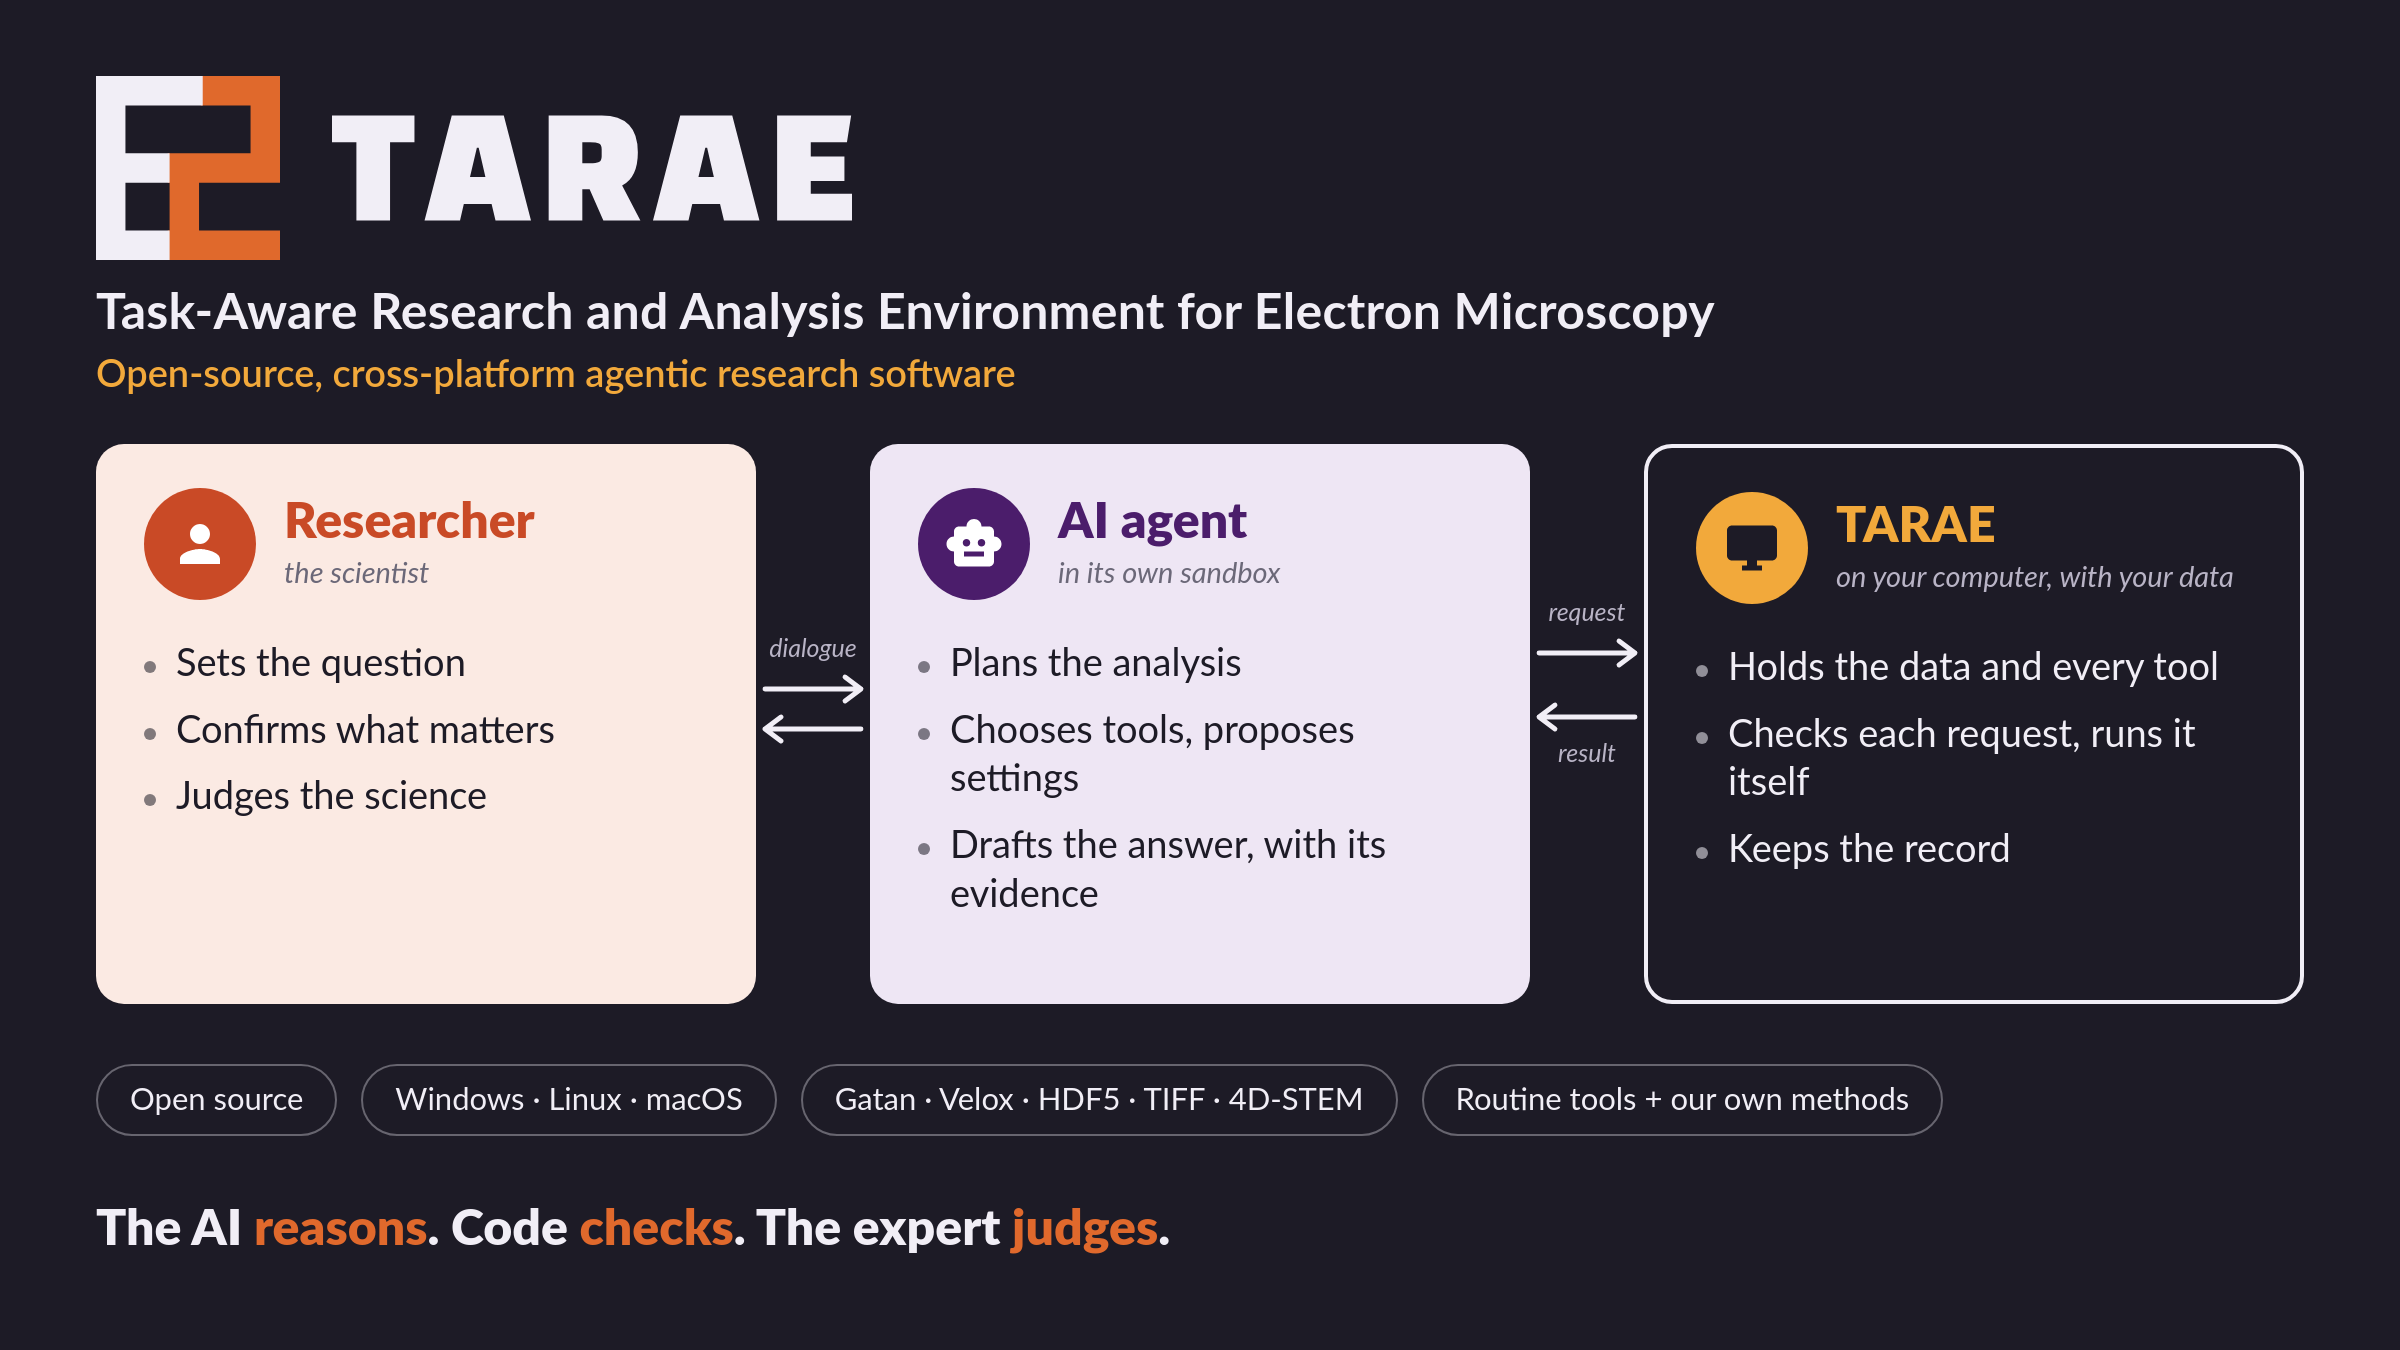
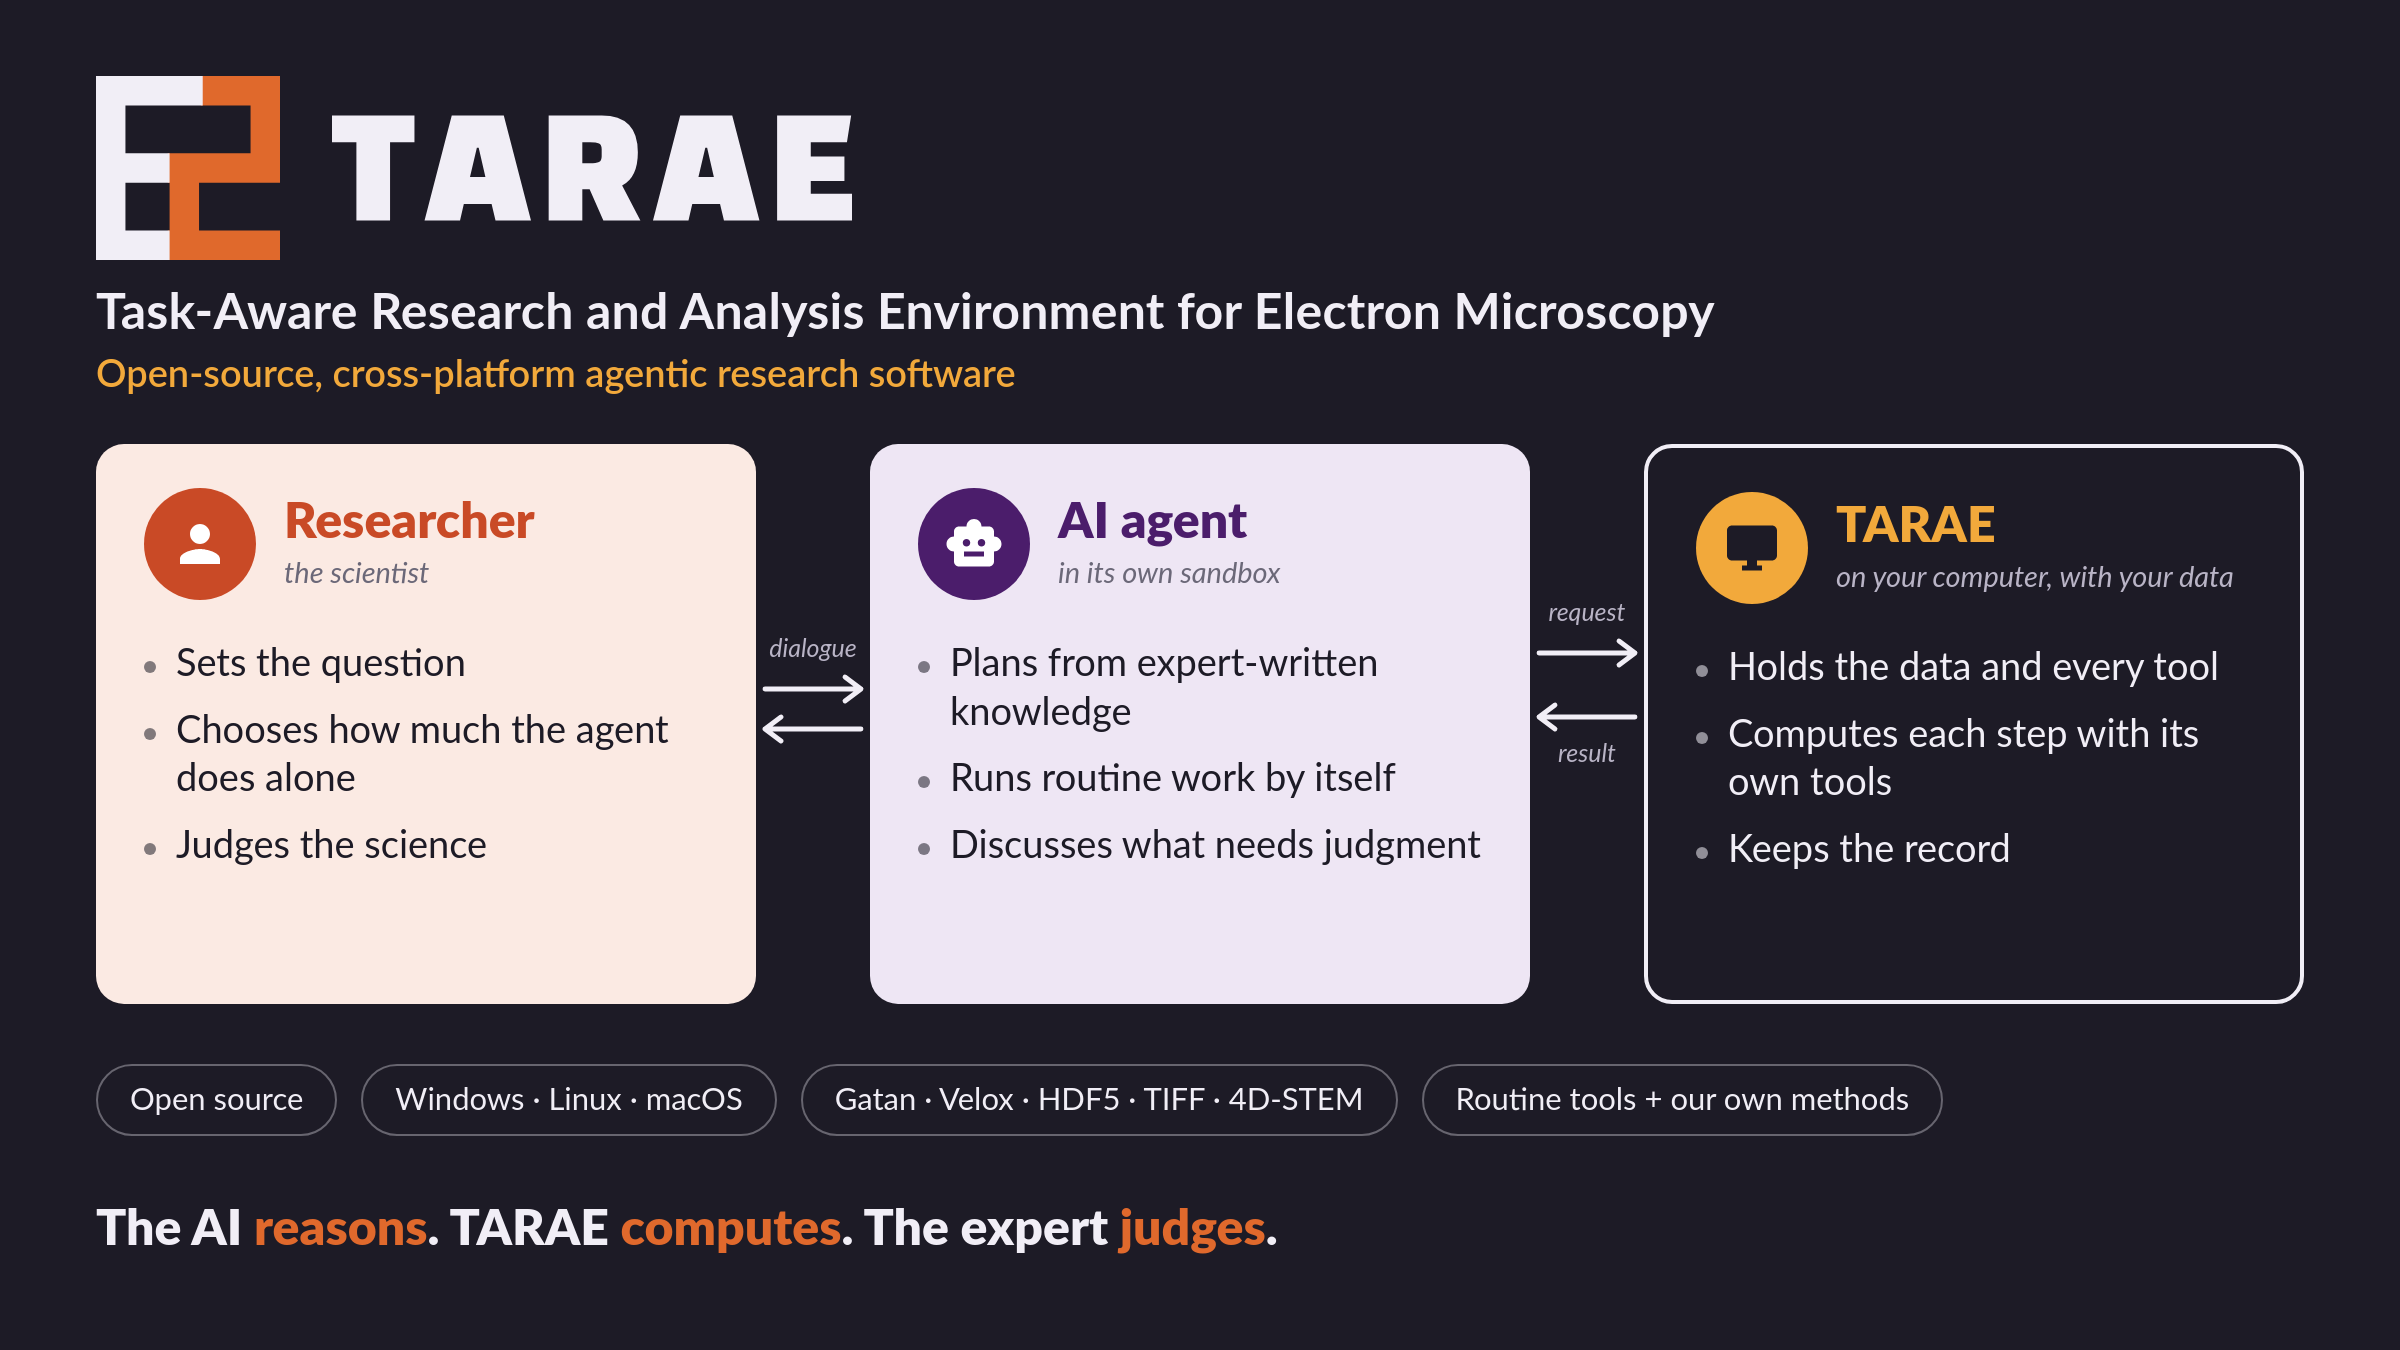
update

diff --git a/_projects/tarae.md b/_projects/tarae.md
@@ -18,9 +18,9 @@ TARAE provides a unified workspace in which microscopy data, processing results,
 
 <div class="project-gallery">
   <div class="project-figure">
-    {% include figure.liquid path="assets/img/projects/TARAE_idea.png" class="img-fluid rounded z-depth-1" sizes="(min-width: 768px) 45vw, 95vw" zoomable=true alt="TARAE's three roles: the researcher, the AI agent in its own sandbox, and TARAE on the researcher's computer, with the dialogue, requests, and results that pass between them" caption="The AI agent reasons in its own sandbox, TARAE checks and runs every request, and the researcher judges" %}
+    {% include figure.liquid path="assets/img/projects/TARAE_idea.png" class="img-fluid rounded z-depth-1" sizes="(min-width: 768px) 45vw, 95vw" zoomable=true alt="TARAE's three roles: the researcher, the AI agent in its own sandbox, and TARAE on the researcher's computer, with the dialogue, requests, and results that pass between them" caption="The AI agent reasons and plans in its own sandbox, TARAE computes every step and keeps the record, and the researcher judges" %}
   </div>
   <div class="project-figure">
-    {% include figure.liquid path="assets/img/projects/TARAE_ladder.png" class="img-fluid rounded z-depth-1" sizes="(min-width: 768px) 45vw, 95vw" zoomable=true alt="A four-step ladder from the researcher doing everything to autonomous characterization with human oversight, under the outlook that autonomous experiments and autonomous characterization together make autonomous microscopy" caption="A ladder toward autonomous microscopy: TARAE works on the steps where the agent assists and the scientific calls stay with the researcher" %}
+    {% include figure.liquid path="assets/img/projects/TARAE_ladder.png" class="img-fluid rounded z-depth-1" sizes="(min-width: 768px) 45vw, 95vw" zoomable=true alt="A four-step ladder from the researcher doing everything to autonomous characterization with human oversight, under the outlook that autonomous experiments and autonomous characterization together make autonomous microscopy" caption="A ladder toward autonomous microscopy: today the agent suggests each step or runs routine work automatically, and autonomous characterization is the next step" %}
   </div>
 </div>
